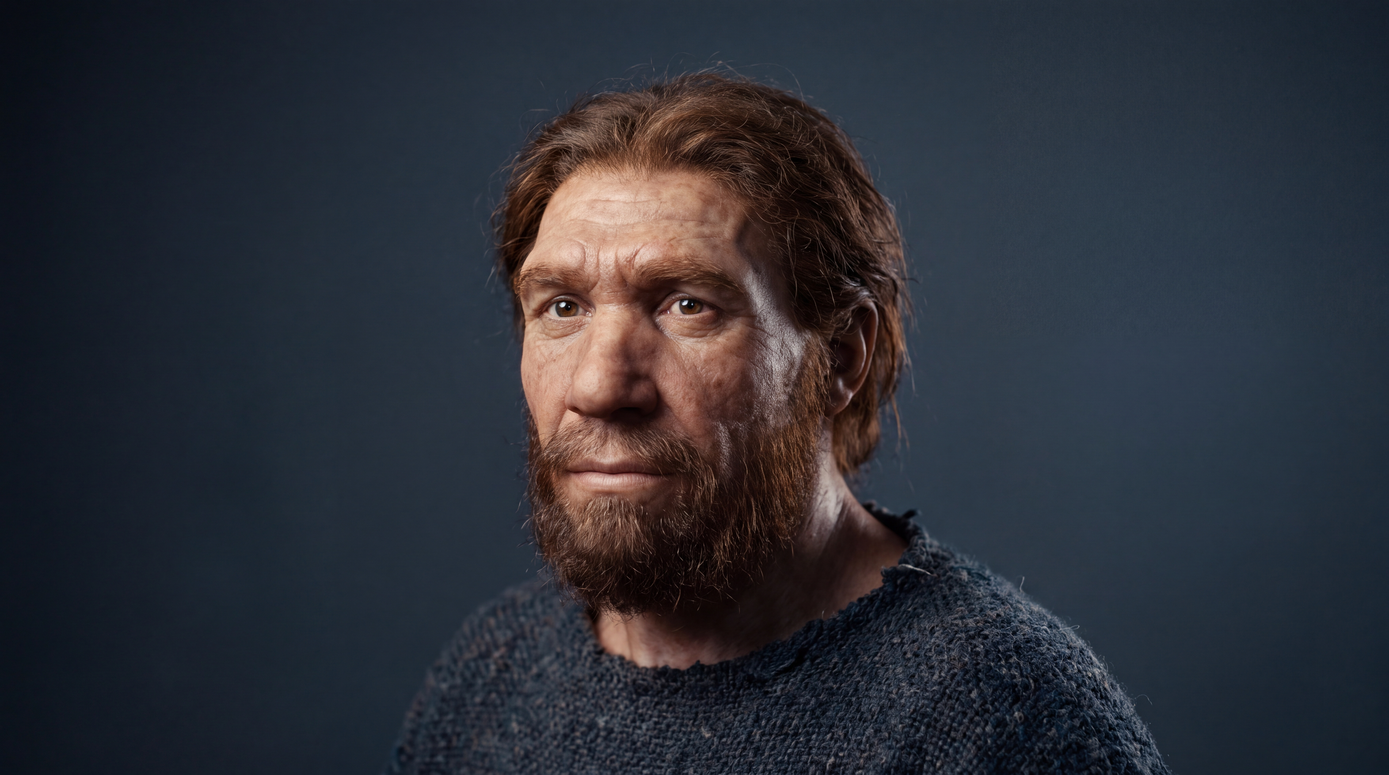
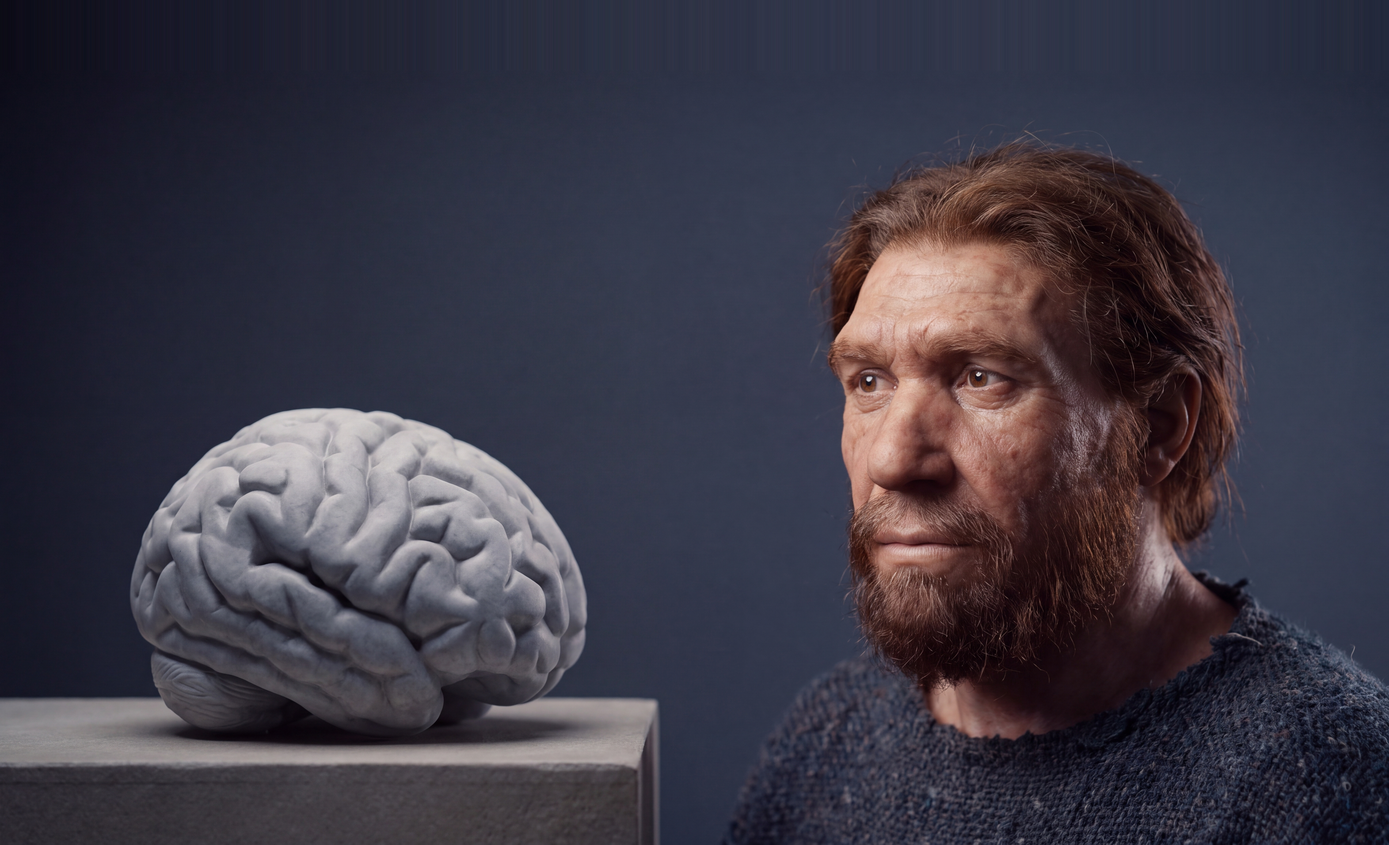
Umschlag fertig: Neandertaler mit dem Gehirn
Titelbild ist jetzt die Kombination beider Motive — der Neandertaler
betrachtet ein Gehirn aus Stein auf einem Sockel, gleiches Licht,
gleicher Grund. Das trägt die These des Buches, ohne sie zu behaupten:
Der Umschlag setzt die Erwartung, die Kapitel 2 abräumt.

Am Bild war eine Korrektur nötig. Die Routine zeichnet das Foto um den
Anschnitt über die Trimmkante hinaus, und dabei wurde dem Neandertaler
das Haar abgeschnitten. Der Hintergrund ist deshalb oben um 275 px
verlängert — die oberste Bildzeile nach oben gestreckt, also ohne Naht.

275 ist die Obergrenze, keine gegriffene Zahl: Beschnitten wird mittig
auf 1838:1118 = 1,6440. Solange das Bild breiter als dieses Verhältnis
ist, fallen nur die Seiten weg und die Höhe bleibt; kippt es darunter,
beginnt die Routine die Höhe zu beschneiden und nimmt die Zugabe gleich
wieder weg. Bei 5504 px Breite liegt die Grenze bei 3348 px Höhe, die
Datei liegt mit 3347 knapp darunter. Der Beschnitt kostet jetzt 227 px
je Seite — beide Motive überstehen ihn.

Das reine Porträt bleibt als titelbild-alternative-portraet.jpg liegen:
Bei sehr kleinen Vorschaubildern trägt ein einzelnes Gesicht sicherer
als zwei Motive.

Abnahme über den fertigen Stand: 43 von 43 Prüfungen bestanden, keine
Fehlschläge. Beide Druckfassungen sauber.

Claude-Session: https://claude.ai/code/session_01GRv3hUYL4yhdZyid2mTbpN

diff --git a/reptilienhirn/README.md b/reptilienhirn/README.md
@@ -151,37 +151,51 @@ des Grundes kostet Kontrast.
 
 ### Das Titelbild
 
-`reptilienhirn/cover/titelbild.jpg` — Porträt eines Neandertalers, 5504 x 3072
-px, deutlich über den nötigen 1838 x 1118. Der dunkle Grund des Fotos liegt
-farblich nah am Schieferton, deshalb geht die Ausblendung an der Unterkante
-sauber auf.
+`reptilienhirn/cover/titelbild.jpg` — der Neandertaler betrachtet ein
+Gehirn aus Stein auf einem Sockel. Beide Motive in einer Aufnahme, gleiches
+Licht, gleicher Grund. Das Bild erzählt die These des Buches, ohne sie zu
+behaupten: Der Umschlag setzt die Erwartung vom archaischen Vorfahren, die
+Kapitel 2 dann abräumt.
 
-**Das Bild ist KI-erzeugt** (Higgsfield, Modell Nano Banana Pro). Das ist bei
-KDP anzugeben — siehe `kdp-metadaten.md`, Abschnitt „KI-erzeugte Inhalte
-melden". Für das Titelbild lautet die Antwort auf KDPs Frage nach
-KI-generierten Inhalten also **ja**, Kategorie Bilder.
+**Das Bild ist KI-erzeugt** (Higgsfield, Nano Banana Pro; aus zwei früheren
+Generierungen als Referenz zusammengesetzt). Bei KDP ist das anzugeben —
+siehe `kdp-metadaten.md`, Abschnitt „KI-erzeugte Inhalte melden". Antwort auf
+die Frage nach KI-generierten Inhalten: **ja**, Kategorie Bilder.
 
-Ein Motiv, das den Titel bestätigt statt ihn zu bebildern: Das Buch nimmt die
-Erzählung vom archaischen Vorfahren im Kopf auseinander, und der Umschlag setzt
-genau diese Erwartung — Kapitel 2 räumt sie dann ab. Bewusst kein
-Höhlenmensch-Klischee: kein Keulenschwingen, kein gefletschtes Gebiss, ruhiger
-Blick.
+Als Alternative liegt `titelbild-alternative-portraet.jpg` daneben — dasselbe
+Gesicht allein, ohne Gehirn. Bei sehr kleinen Vorschaubildern trägt ein
+einzelnes Gesicht sicherer als zwei Motive; wer das ausprobieren will, tauscht
+die Dateinamen.
 
-Wird das Motiv getauscht, gelten die Anforderungen aus der Tabelle unten. Ohne
-Datei bricht `build_cover.py` mit einem Hinweis ab, statt auf das Foto der
-Stoffwechsel-Reihe oder die gezeichnete Lebensmittelauslage zurückzufallen —
-beides fiele erst am fertigen Umschlag auf.
+#### Warum das Bild oben 275 px Zugabe hat
+
+Die Originaldatei war 5504 x 3072 px. In dieser Fassung wurde der Hintergrund
+oben um 275 px verlängert — die oberste Bildzeile nach oben gestreckt, deshalb
+ohne sichtbare Naht. Grund: `titelbild_zeichnen()` zeichnet das Foto um den
+Anschnitt über die Trimmkante hinaus, und dabei wurde dem Neandertaler das Haar
+abgeschnitten.
+
+Die 275 px sind keine runde Zahl, sondern die Obergrenze. Beschnitten wird
+mittig auf das Verhältnis 1838:1118 = 1,6440. Solange das Bild **breiter** als
+dieses Verhältnis ist, beschneidet die Routine die Seiten und lässt die Höhe
+unangetastet; kippt es darunter, beginnt sie die Höhe zu beschneiden und nimmt
+die Zugabe gleich wieder weg. Bei 5504 px Breite liegt die Grenze also bei
+5504 / 1,6440 = 3348 px Höhe, und 3348 − 3072 = 276. Die Datei liegt mit
+5504 x 3347 knapp darunter.
+
+Wer das Motiv tauscht, prüft dasselbe: Verhältnis über 1,6440 halten, sonst
+verschwindet oben genau das, was man dazugegeben hat.
 
 | | |
 |---|---|
 | Ablage | `reptilienhirn/cover/titelbild.jpg` (auch `.png`, `.jpeg`, `.webp`) |
-| Mindestgröße | **1838 x 1118 px** — gerechnet von `titelbild_sollmasse()` aus der Seitengröße, nicht geraten |
-| Seitenverhältnis | egal, es wird mittig auf das Format beschnitten |
-| Motiv | Bildmitte freihalten; die Unterkante wird in den Schieferton ausgeblendet |
+| Mindestgröße | **1838 x 1118 px** — gerechnet von `titelbild_sollmasse()`, nicht geraten |
+| Verhältnis | über 1,6440 halten, sonst wird die Höhe beschnitten |
+| Motiv | oben Luft lassen (Anschnitt), unten wird in den Schieferton ausgeblendet |
 
-Das Foto füllt nur das obere Band der Vorderseite, nicht den ganzen Umschlag.
-Reicht die Auflösung nach dem Beschnitt nicht für 300 dpi, rechnet das Skript
-hoch und meldet das.
+Ohne Titelbild bricht `build_cover.py` mit einem Hinweis ab, statt auf das Foto
+der Stoffwechsel-Reihe oder die gezeichnete Lebensmittelauslage
+zurückzufallen — beides fiele erst am fertigen Umschlag auf.
 
 **Herkunft klären, bevor ein anderes Bild eingesetzt wird.** Stammt es von
 einem Bildanbieter, muss die Lizenz die kommerzielle Nutzung auf einem
